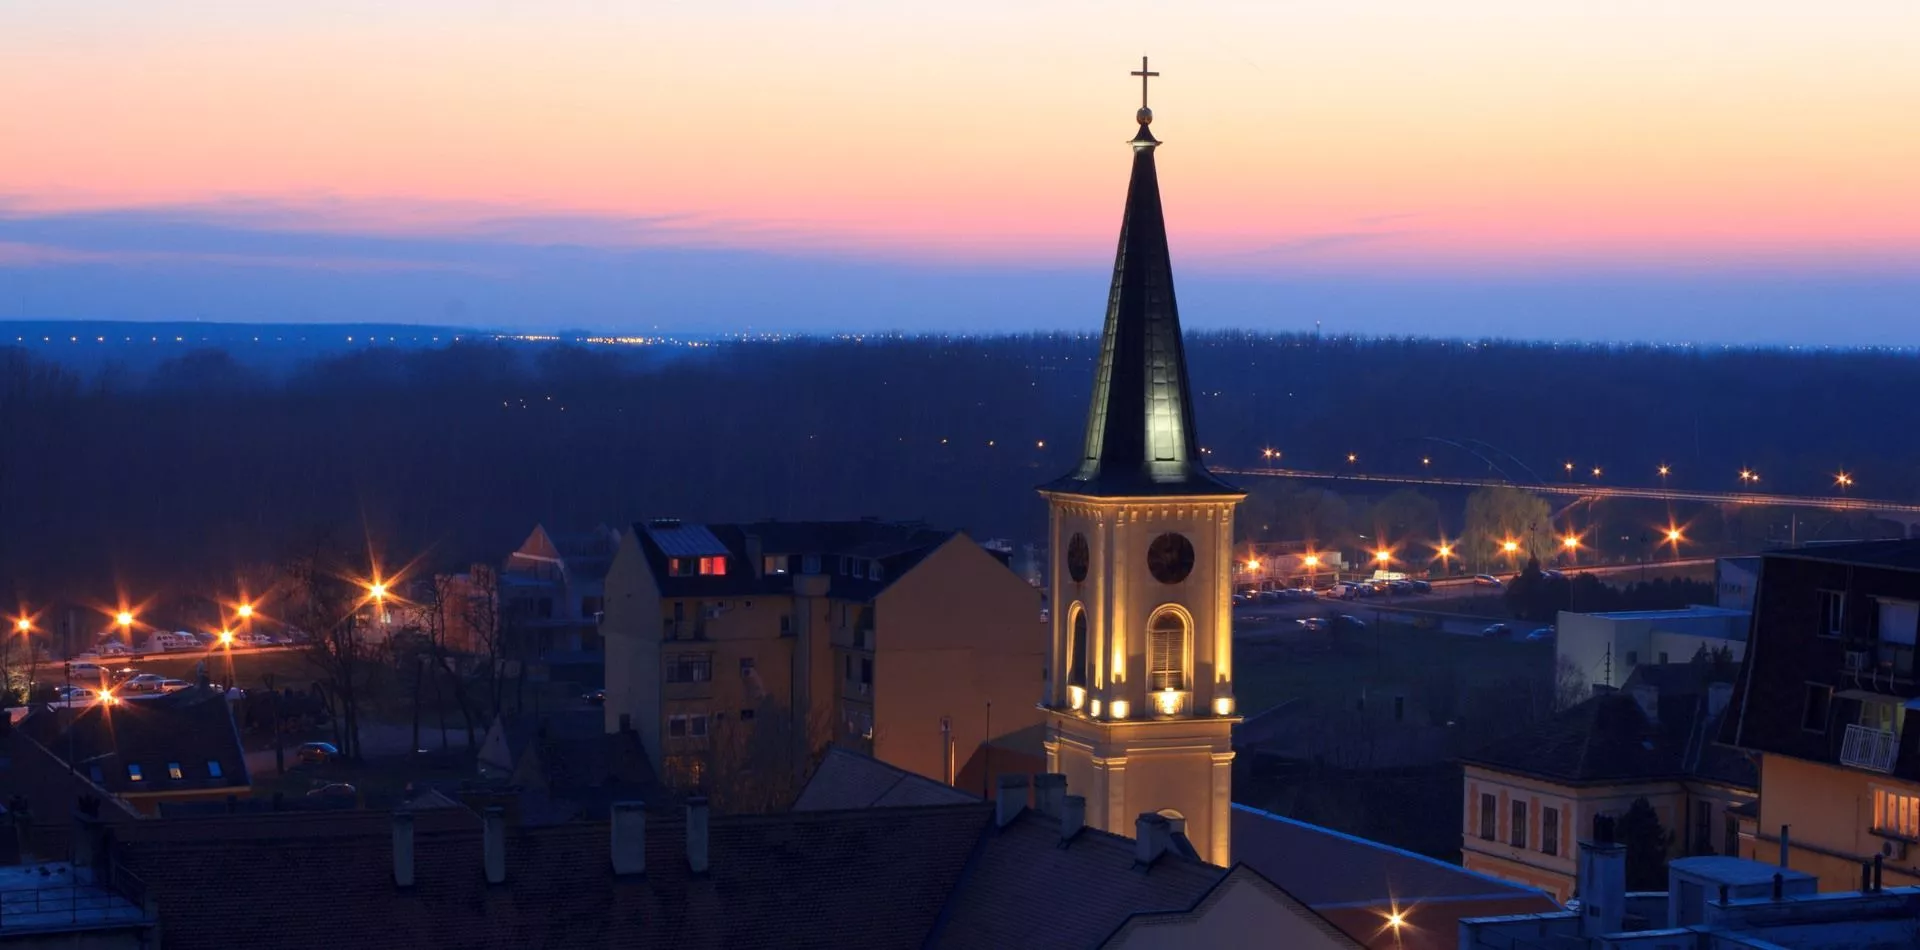
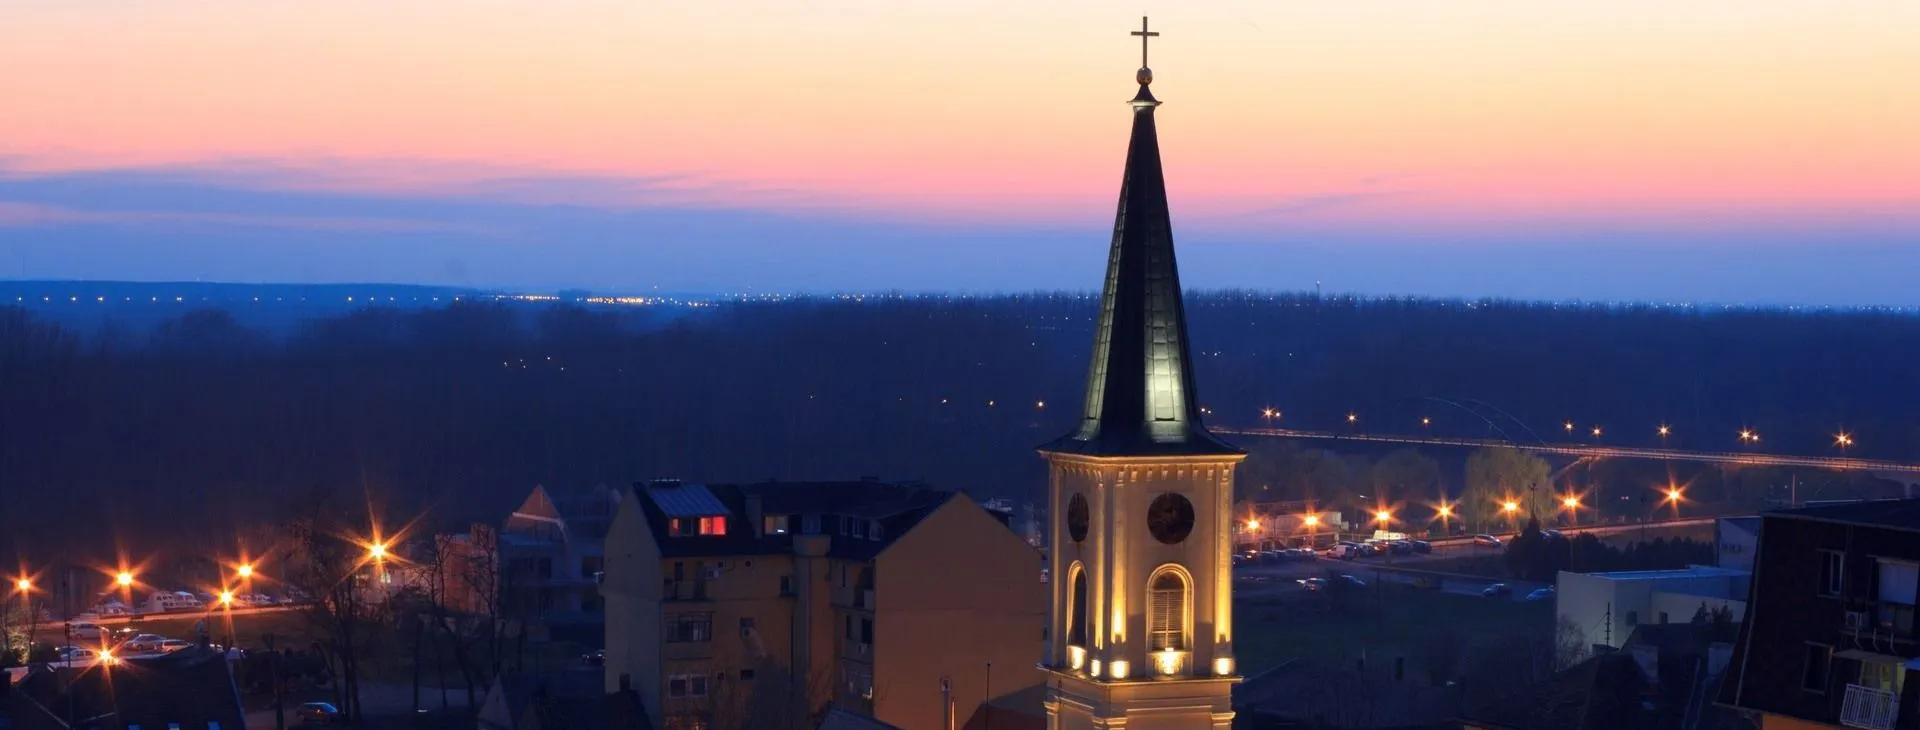
promenjene velicine slika na hero

diff --git a/styles/style.css b/styles/style.css
@@ -1,12 +1,15 @@
 * {
     font-family: 'Roboto', sans-serif;
 }
+
 .color-ink {
     color: #292663;
 }
+
 .aktivno > a {
     color: #292663 !important;
 }
+
 .navbar {
     background-color: white;
     /*color: white !important;*/
@@ -16,6 +19,7 @@
     -webkit-box-shadow: 0 10px 13px -7px #000000, 5px 5px 15px 5px rgba(0, 0, 0, 0);
     box-shadow: 0 10px 13px -7px #000000, 5px 5px 15px 5px rgba(0, 0, 0, 0);;
 }
+
 .nav-link {
     color: #8ed8f8 !important;
 }
@@ -36,6 +40,7 @@
 .different:hover::after {
     width: 100%;
 }
+
 .hero-div {
     position: relative;
 }
@@ -52,12 +57,15 @@
     width: 100%;
     height: auto;
 }
+
 .border-levo {
     border-left: 2px solid #292663;
 }
+
 .index-projekat {
     background-color: #8ed8f8;
 }
+
 .btn-urban {
     font-size: 16px;
     color: white;
@@ -67,10 +75,12 @@
     box-shadow: 0 8px 6px -6px rgba(0, 0, 0, 0.50);
     text-decoration: none;
 }
+
 .btn-urban:hover {
     color: #292663;
     background-color: white;
 }
+
 .oblak {
     font-size: 16px;
     color: white;
@@ -89,6 +99,7 @@
     box-shadow: 0 8px 6px -6px rgba(0, 0, 0, 0.50);
     text-decoration: none;
 }
+
 .greyscale {
     filter: invert(8%) sepia(47%) saturate(4514%) hue-rotate(238deg) brightness(109%) contrast(88%);
 }
@@ -96,21 +107,27 @@
 .greyscale:hover {
     filter: invert(69%) sepia(82%) saturate(219%) hue-rotate(164deg) brightness(100%) contrast(95%);
 }
+
 .social-network .fab, .social-network .fas {
     color: #292663;
 }
+
 .social-network .fab:hover, .social-network .fas:hover {
     color: #8ed8f8;
 }
+
 .social-network a {
     text-decoration: none;
 }
+
 .ink-link {
     color: #292663;
 }
+
 .ink-link:hover {
     color: #8ed8f8;
 }
+
 .back-to-top {
     position: fixed;
     width: 50px;
@@ -129,6 +146,7 @@
     color: white !important;
     background-color: #292663 !important;
 }
+
 /*poziv odmah*/
 @media only screen and (max-width: 992px) {
     .phone-call a {
@@ -222,9 +240,11 @@
         }
     }
 }
+
 ::-webkit-scrollbar {
     width: 12px;
 }
+
 /*scrollbar*/
 /* Track */
 ::-webkit-scrollbar-track {
@@ -245,9 +265,11 @@
     border-radius: 5px;
     border: 1px solid white;
 }
+
 .border-vrh {
     border-top: 1px solid #8ed8f8 !important;
 }
+
 .pod-nav {
     /*background-image: linear-gradient(to right, #ff8095, #dc89d0, #909eee, #27ace2, #00afb9);*/
     /*color: white;*/
@@ -255,58 +277,70 @@
     /*background-color: #a8dadc;*/
     color: #4d4d4d;
 }
+
 .pozadina-kontakt {
     background-image: url(../images/kontakt-pozadina.webp);
     background-repeat: no-repeat;
     background-position: center;
     background-size: cover;
 }
+
 .kontakt-podatci {
     color: white;
     background-color: rgba(41, 38, 99, 0.4);
     border-radius: 10px;
 }
+
 .kontakt-podatci a, .text-link a {
     color: #8ed8f8;
     text-decoration: none;
     transition-duration: 0.2s;
 }
+
 .kontakt-podatci a:hover, .text-link a:hover {
     color: #8ed8f8;
     text-decoration: underline;
 }
+
 .txt-shadow {
     color: white;
     text-shadow: 2px 2px 4px #000000;
 }
+
 .send-button .send-dugme {
     border-radius: 15px;
     color: white !important;
     background-color: #292663 !important;
     /*border: #fed9b7 1px solid !important;*/
 }
+
 .send-button .send-dugme:hover {
     background-color: white !important;
     color: #292663 !important;
 }
+
 .send-button .form-control:focus {
     /*border-color: #009199 !important;*/
     -webkit-box-shadow: 6px 6px 6px 0 rgba(0, 0, 0, 0.3);
     box-shadow: 6px 6px 6px 0 rgba(0, 0, 0, 0.3);
 }
+
 .kontakt input, .kontakt textarea {
     background-color: #e1e5f2 !important;
     /* border-radius: 0 !important; */
 }
+
 .pozadina {
     background-image: url(../images/grad-pancevo-background.png);
     background-repeat: no-repeat;
     background-position: center;
     background-size: cover;
 }
+
 .transbox {
     background: rgba(142, 216, 248, 0.1);
 }
+
 .widget-title span {
     background: #8ed8f8 none repeat scroll 0 0;
     display: block;
@@ -315,4 +349,15 @@
     margin-bottom: 15px;
     position: relative;
     width: 50px;
+}
+
+@media screen and (max-width: 500px) {
+
+    .pocetna-slika {
+        display: block !important;
+        width: 100vw !important;
+        height: 100vh !important;
+        object-fit: cover !important;
+    }
+
 }

diff --git a/index.html b/index.html
@@ -122,8 +122,8 @@
             <source media="(max-width: 500px)" srcset="images/grad-pancevo-hero_mob.jpg"
                     type="image/jpg">
 
-            <img class="d-block img-fluid hero-img" src="images/grad-pancevo-hero.jpg"
-                 alt="grad-pancevo-hero" width="1920" height="950">
+            <img class="d-block pocetna-slika img-fluid hero-img" src="images/grad-pancevo-hero.jpg"
+                 alt="grad-pancevo-hero" width="1920" height="730">
         </picture>
         <!--        <div class="container-fluid hero-pozadina d-flex justify-content-center align-items-center">-->
         <!--            <div class="d-flex justify-content-center align-items-center text-center h-100 ">-->
